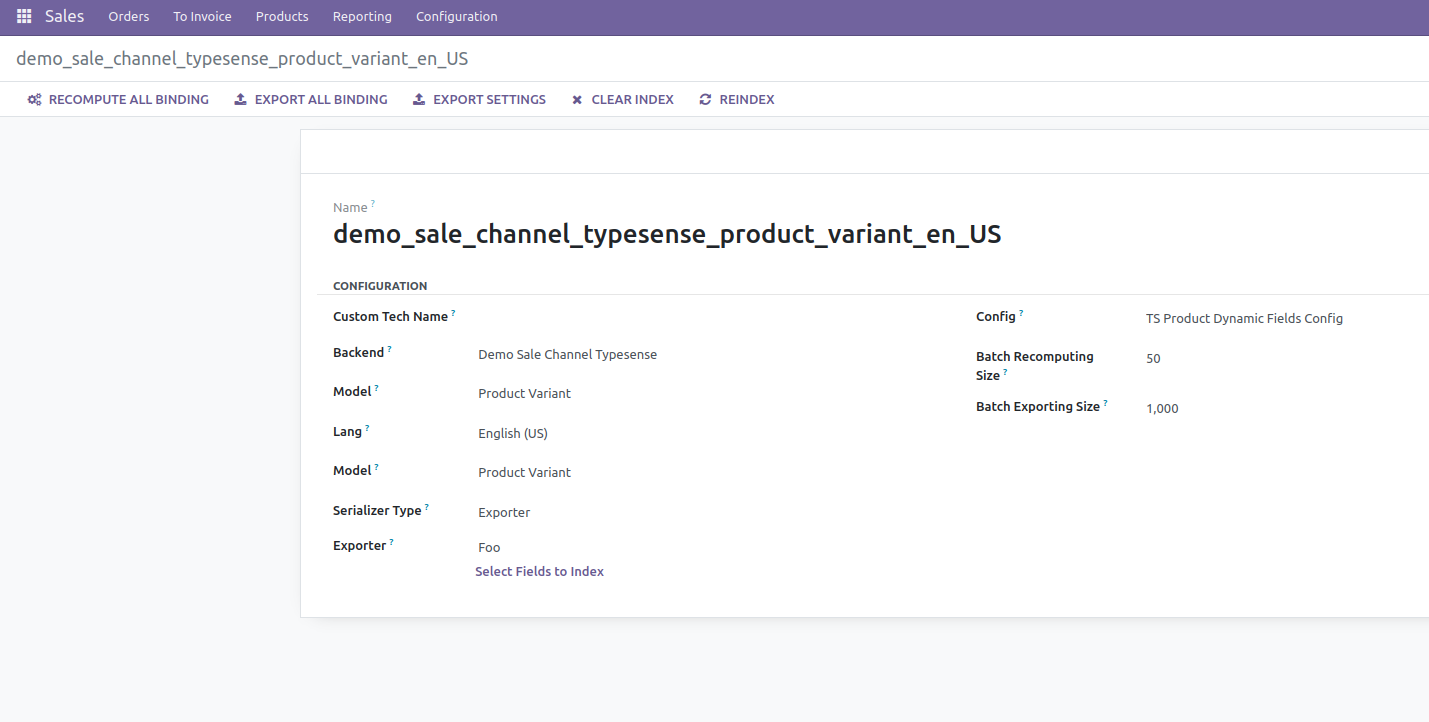
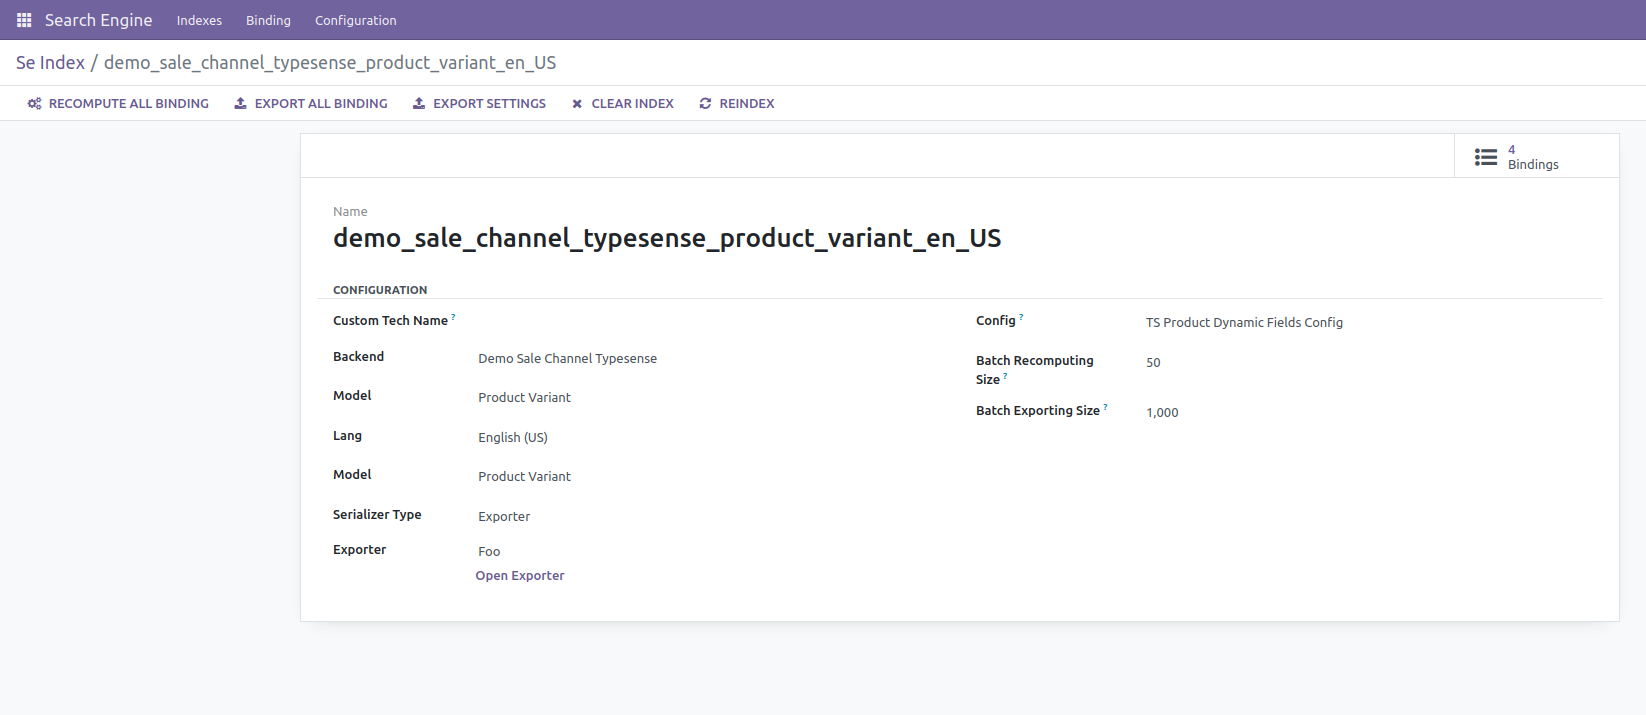
remove unnecessary buggy line

diff --git a/typesense_ir_exports/static/description/index.html b/typesense_ir_exports/static/description/index.html
@@ -451,21 +451,18 @@ connected to odoo.</p>
 <pre class="literal-block">
 - Model: select the model you want to index
 - Serializer Type: Exporter
-- Exporter: select or create a new one and set
-    - Resource: model technical name you want to index
-    - Index lines: each line a technical name of the field of interest
+- Exporter: select or create a new exporter template by clicking on &quot;Open Exporter&quot; button
 - Config: select or create the config se index record mentioned above
 </pre>
-<p>You can create and manage exporter templates through a button in the
-tree view once you click on the exporter or the button under the
+<p>You can create, update and delete exporter templates through a button in
+the tree view once you click on the exporter or the button under the
 <tt class="docutils literal">exporter_id</tt> field in the se.index form view.</p>
 </div>
 <div class="section" id="media">
 <h2><a class="toc-backref" href="#toc-entry-4">Media</a></h2>
-<p><img alt="Backend Configuration" src="https://raw.githubusercontent.com/OCA/search-engine/16.0/typesense_ir_exports/static/img/backend.png" />{width=300}</p>
-<p><img alt="Exporter Dialog Button in Tree View" src="https://raw.githubusercontent.com/OCA/search-engine/16.0/typesense_ir_exports/static/img/exporter_dialog_button.png" />{width=300}</p>
-<p><img alt="Exporter Form View View" src="https://raw.githubusercontent.com/OCA/search-engine/16.0/typesense_ir_exports/static/img/exporter_form_view.png" />{width=300}</p>
-<p><img alt="Exporter Dialog" src="https://raw.githubusercontent.com/OCA/search-engine/16.0/typesense_ir_exports/static/img/exporter_dialog.png" />{width=300}</p>
+<p><img alt="Backend Configuration" src="https://raw.githubusercontent.com/OCA/search-engine/16.0/typesense_ir_exports/static/img/backend.png" /></p>
+<p><img alt="Exporter Dialog Button in Tree View" src="https://raw.githubusercontent.com/OCA/search-engine/16.0/typesense_ir_exports/static/img/exporter_dialog_button.png" /></p>
+<p><img alt="Exporter Dialog" src="https://raw.githubusercontent.com/OCA/search-engine/16.0/typesense_ir_exports/static/img/exporter_dialog.png" /></p>
 </div>
 </div>
 <div class="section" id="usage">

diff --git a/typesense_ir_exports/static/src/action_ir_export.esm.js b/typesense_ir_exports/static/src/action_ir_export.esm.js
@@ -116,7 +116,6 @@ class IrExportWidget extends Many2OneField {
         return true;
     }
     async getExportedFields(model, import_compat, parentParams) {
-        model = this.props.record.data.model_name;
         return await this.rpc("/web/export/get_fields", {
             ...parentParams,
             model,

diff --git a/typesense_ir_exports/README.rst b/typesense_ir_exports/README.rst
@@ -106,29 +106,24 @@ Create a backend record, and create an index line with values:
 
    - Model: select the model you want to index
    - Serializer Type: Exporter
-   - Exporter: select or create a new one and set
-       - Resource: model technical name you want to index
-       - Index lines: each line a technical name of the field of interest
+   - Exporter: select or create a new exporter template by clicking on "Open Exporter" button
    - Config: select or create the config se index record mentioned above
 
-You can create and manage exporter templates through a button in the
-tree view once you click on the exporter or the button under the
+You can create, update and delete exporter templates through a button in
+the tree view once you click on the exporter or the button under the
 ``exporter_id`` field in the se.index form view.
 
 Media
 -----
 
-|Backend Configuration|\ {width=300}
+|Backend Configuration|
 
-|Exporter Dialog Button in Tree View|\ {width=300}
+|Exporter Dialog Button in Tree View|
 
-|Exporter Form View View|\ {width=300}
-
-|Exporter Dialog|\ {width=300}
+|Exporter Dialog|
 
 .. |Backend Configuration| image:: https://raw.githubusercontent.com/OCA/search-engine/16.0/typesense_ir_exports/static/img/backend.png
 .. |Exporter Dialog Button in Tree View| image:: https://raw.githubusercontent.com/OCA/search-engine/16.0/typesense_ir_exports/static/img/exporter_dialog_button.png
-.. |Exporter Form View View| image:: https://raw.githubusercontent.com/OCA/search-engine/16.0/typesense_ir_exports/static/img/exporter_form_view.png
 .. |Exporter Dialog| image:: https://raw.githubusercontent.com/OCA/search-engine/16.0/typesense_ir_exports/static/img/exporter_dialog.png
 
 Usage

diff --git a/typesense_ir_exports/readme/CONFIGURE.md b/typesense_ir_exports/readme/CONFIGURE.md
@@ -41,21 +41,17 @@ Create a backend record, and create an index line with values:
 
     - Model: select the model you want to index
     - Serializer Type: Exporter
-    - Exporter: select or create a new one and set
-        - Resource: model technical name you want to index
-        - Index lines: each line a technical name of the field of interest
+    - Exporter: select or create a new exporter template by clicking on "Open Exporter" button
     - Config: select or create the config se index record mentioned above
 
-You can create and manage exporter templates through a button in the tree view once you
-click on the exporter or the button under the `exporter_id` field in the se.index form
-view.
+You can create, update and delete exporter templates through a button in the tree view
+once you click on the exporter or the button under the `exporter_id` field in the
+se.index form view.
 
 ## Media
 
-![Backend Configuration](../static/img/backend.png){width=300}
+![Backend Configuration](../static/img/backend.png)
 
-![Exporter Dialog Button in Tree View](../static/img/exporter_dialog_button.png){width=300}
+![Exporter Dialog Button in Tree View](../static/img/exporter_dialog_button.png)
 
-![Exporter Form View View](../static/img/exporter_form_view.png){width=300}
-
-![Exporter Dialog](../static/img/exporter_dialog.png){width=300}
+![Exporter Dialog](../static/img/exporter_dialog.png)
